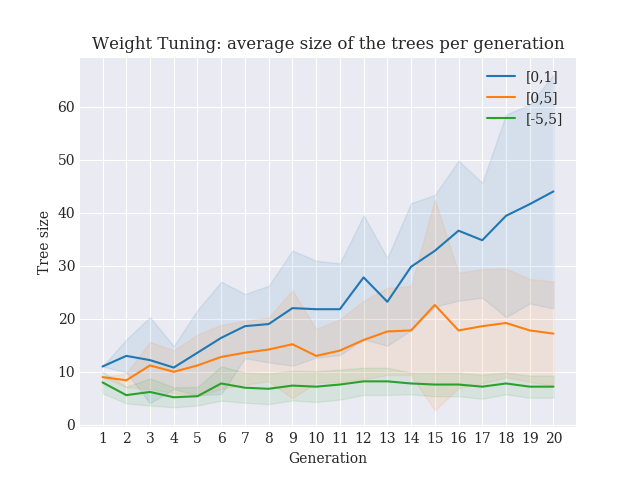
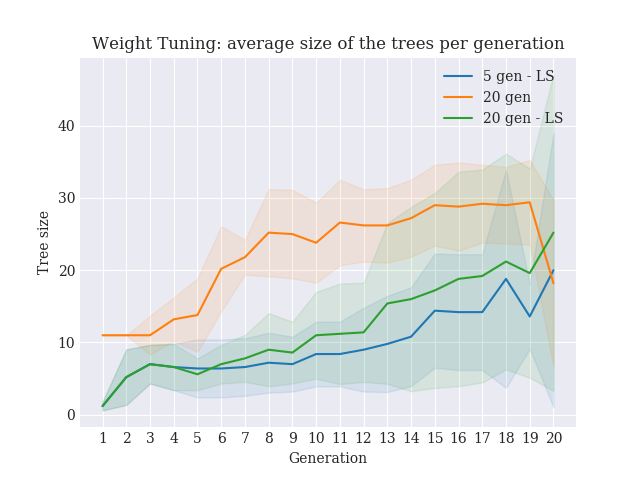
new plotting code

diff --git a/plots/plot_some_gen.py b/plots/plot_some_gen.py
@@ -1,0 +1,125 @@
+# %%
+import matplotlib
+import matplotlib.pyplot as plt
+import numpy as np
+
+from reader import extract_all_data, avg_over_runs
+
+# Set theme
+matplotlib.style.use('seaborn-darkgrid')
+matplotlib.rcParams['font.family'] = "serif"
+
+# Global settings of the experiments
+runs = 10
+gens = 20
+pop_size = 100
+logs = [
+    # TODO: add data from log below when finished
+    # ("../log/log_tune_5_gen.txt", "5 gen"),
+    ("../log/log_tune_5_gen_ls.txt", "5 gen - LS"),
+    ("../log/log_tune_20_gen.txt", "20 gen"),
+    ("../log/log_tune_20_gen_ls.txt", "20 gen - LS"),
+]
+
+data = extract_all_data(logs, runs=runs, gens=gens, pop_size=pop_size)
+x = np.arange(1, gens + 1, 1)
+
+#%%
+# Plot best fitness per generation
+palette = plt.get_cmap('tab10')
+
+plt.figure()
+plt.xlabel("Generation")
+plt.ylabel("Best Training MSE")
+plt.xticks(x)
+plt.title("Tune after x generations: best fitness per generation")
+
+color = 0
+for w in data.keys():
+    fit, _, _, _ = data[w]
+    m_fit, std_fit = avg_over_runs(fit)
+    plt.plot(x, m_fit, color=palette(color), label=w)
+    plt.fill_between(x, m_fit + std_fit, m_fit - std_fit, color=palette(color), alpha=0.1)
+
+    color += 1
+
+plt.legend()
+plt.savefig("../images/tune_gen_fitness")
+plt.show()
+
+#%%
+
+palette = plt.get_cmap('tab10')
+
+# Plot size of the tree
+plt.figure()
+plt.xlabel("Generation")
+plt.ylabel("Tree size")
+plt.title("Tune after x generations: average size of the trees per generation")
+
+color = 0
+
+for w in data.keys():
+    _, size, _, _ = data[w]
+    m_size, std_size = avg_over_runs(size)
+
+    plt.plot(x, m_size, color=palette(color), label=w)
+    plt.fill_between(x, m_size + std_size, m_size - std_size, color=palette(color), alpha=0.1)
+
+    color += 1
+
+plt.legend()
+plt.savefig("../images/tune_gen_size")
+plt.show()
+
+# %%
+
+# Plots for 5gens tuning and 20gens tuning can better be seperated...
+
+gens5 = ['5 gen - LS']
+x_gens5 = [4, 9, 14, 19]
+gens20 = ['20 gen', '20 gen - LS']
+x_gens20 = [19]
+
+palette = plt.get_cmap('tab20')
+color = 0
+
+
+def plot_gen_diff(x, keys, name, color):
+    # Plot the average improvement with weight tuning
+    plt.figure()
+    plt.xlabel("Generation")
+    plt.ylabel("Training MSE")
+    plt.xticks(x)
+    plt.title("Weight Tuning: fitness before and after tuning")
+
+    # plt.xlim([1, 20])
+    # plt.ylim([0, 1500])
+
+    for w in keys:
+        _, _, before, after = data[w]
+
+        # Mask zeros values
+        before = before[before > 0]
+        after = after[after > 0]
+        print(before.shape)
+
+        m_before, std_before = avg_over_runs(before)
+
+        m_after, std_after = avg_over_runs(after)
+
+        plt.plot(x, m_before, color=palette(color), label=f"Before -{w}")
+        # plt.fill_between(x, m_before + std_before, m_before - std_before, color=palette(color), alpha=0.1)
+
+        plt.plot(x, m_after, color=palette(color + 1), label=f"After -{w}")
+        # plt.fill_between(x, m_after + std_after, m_after - std_after, color=palette(color + 1), alpha=0.1)
+
+        color += 2
+
+    plt.legend()
+    plt.savefig(f"../images/tune_gen_{name}")
+    plt.show()
+
+plot_gen_diff(x_gens5, gens5, "gens5", 0)
+plot_gen_diff(x_gens20, gens20, "gens20", 2)
+

diff --git a/plots/reader.py b/plots/reader.py
@@ -59,8 +59,10 @@ def extract_all_per_gen(fname, runs=10, gens=100, pop_size=100):
             tuner += 1
 
     # Average the tuner logs per gen
-    before_fitness = np.mean(before_fitness, axis=2)
-    after_fitness = np.mean(after_fitness, axis=2)
+    before_fitness[before_fitness == 0] = np.nan
+    # after_fitness[after_fitness == 0] = np.nan
+    before_fitness = np.nanmean(before_fitness, axis=2)
+    after_fitness = np.nanmean(after_fitness, axis=2)
 
     return fitness, tree_size, before_fitness, after_fitness
 

diff --git a/plots/plot_ls.py b/plots/plot_ls.py
@@ -13,13 +13,13 @@ matplotlib.rcParams['font.family'] = "serif"
 runs = 10
 gens = 100
 pop_size = 100
-weights = [
+logs = [
     ("../log/log_scale_normal.txt", "Normal"),
     ("../log/log_scale_normal_ls.txt", "LS"),
 ]
 
-data = extract_all_data(weights, runs=runs, gens=gens, pop_size=pop_size)
-x = np.arange(1, 101, 1)
+data = extract_all_data(logs, runs=runs, gens=gens, pop_size=pop_size)
+x = np.arange(1, gens + 1, 1)
 
 #%%
 # Plot best fitness per generation
